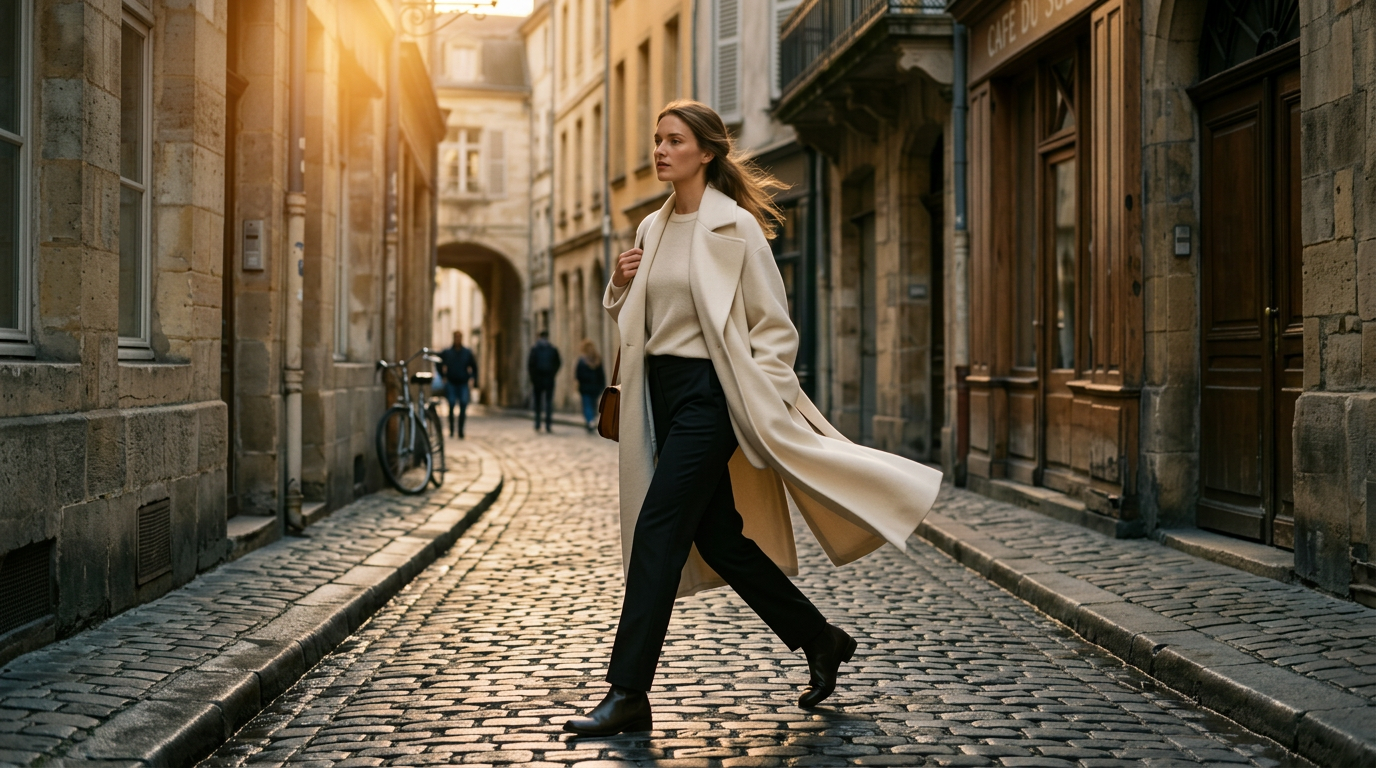
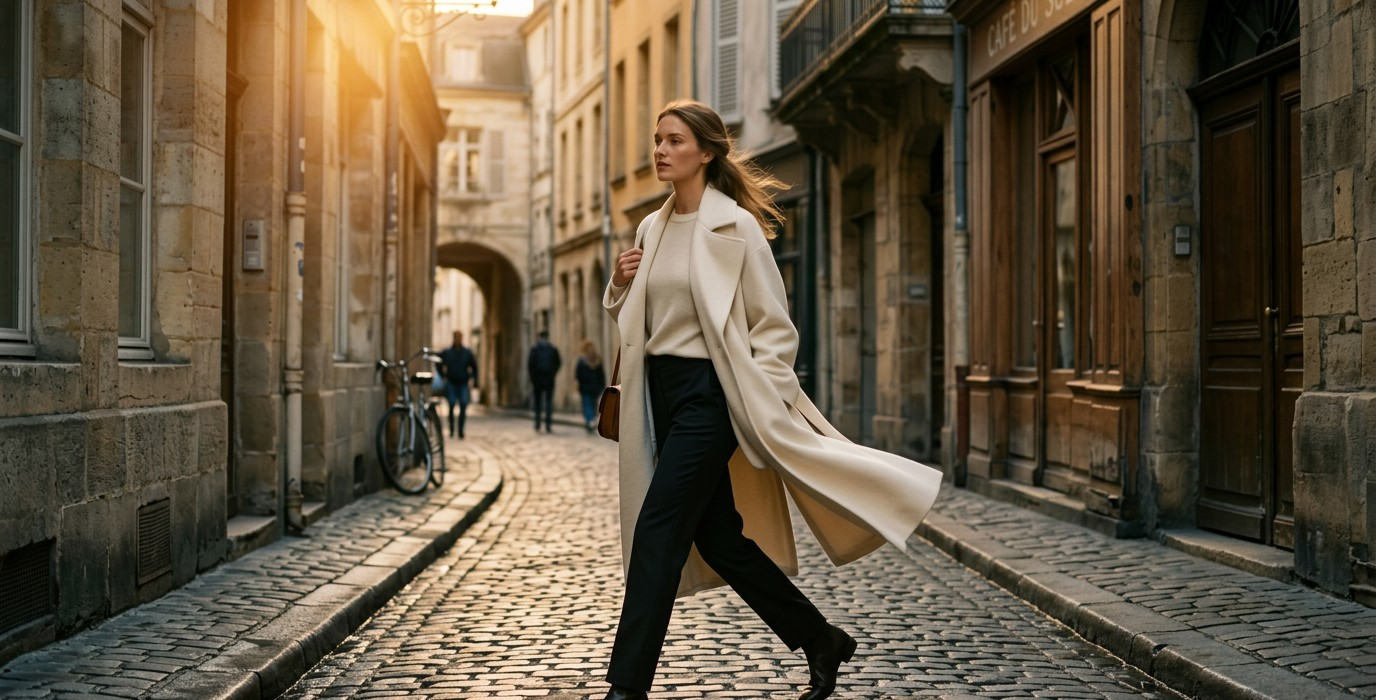
Add designer-photo.md with editorial portrait prompt for Elena Voss

diff --git a/docs/designer-photo.md b/docs/designer-photo.md
@@ -1,0 +1,36 @@
+# Designer Photo
+
+## Format specifications
+
+| Property | Value |
+|---|---|
+| Aspect ratio | 3:4 portrait |
+| Resolution | 1800 × 2400 px |
+| Format | JPEG, sRGB, quality 94 |
+| Style | Editorial portrait, natural light, candid |
+| Color profile | Warm tone, film-grade — match Aurora brand palette |
+
+---
+
+## Creative Director Portrait
+
+**File:** `public/images/designer.jpg`
+
+**Caption:** Elena Voss — Founder & Creative Director, Aurora
+
+**Usage:** Left column of the Designer Story section, full-height image with warm gold overlay (`mix-blend-mode: multiply`). Subject should fill the frame vertically, focus on upper body and hands.
+
+**Prompt:**
+```
+Editorial portrait of a woman in her late 30s, Elena Voss, founder and creative 
+director of a luxury fashion house. She stands in a sunlit design studio — bolts 
+of cream and camel fabric on a worktable behind her, dressmaker's scissors and 
+pattern paper to the side. She is examining a swatch of ivory wool between her 
+fingers, head slightly bowed in quiet concentration. Natural window light from 
+the left wraps around her face and hands. She wears a simple black sleeveless 
+top, minimal jewelry — a single thin gold necklace. The studio background is 
+slightly out of focus, warm neutral tones: white walls, natural wood, soft 
+shadows. The composition is 3:4 portrait, full upper body visible. Warm film 
+grade with golden midtones. Candid, intimate, intentional. Aurora brand 
+aesthetic — quiet luxury, the hand behind the work.
+```